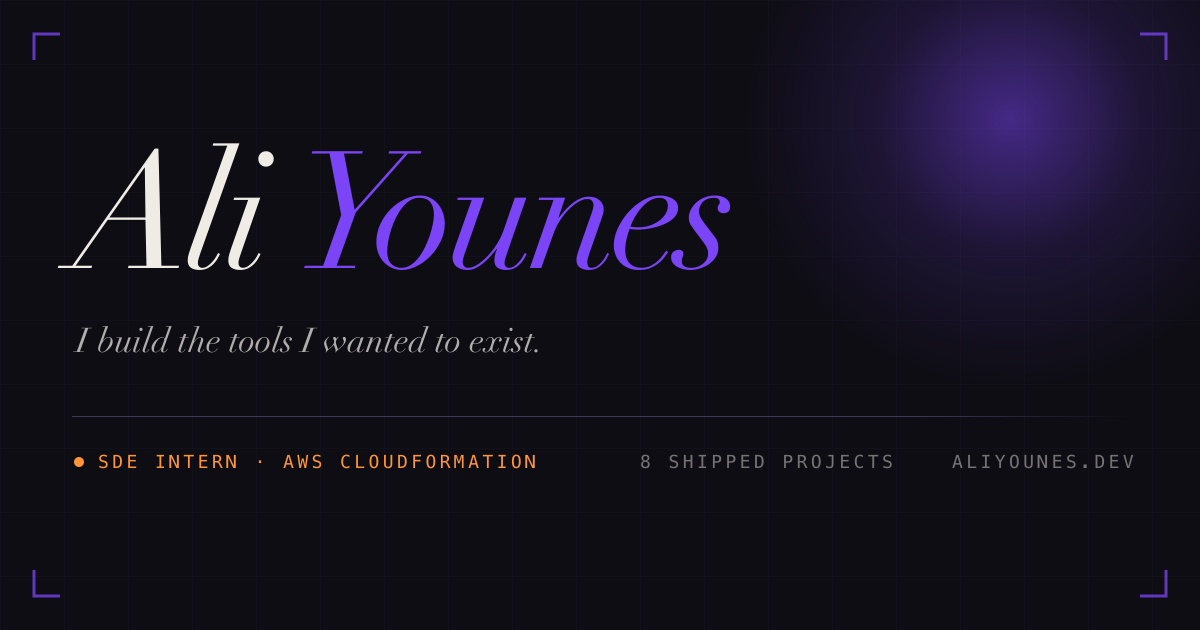
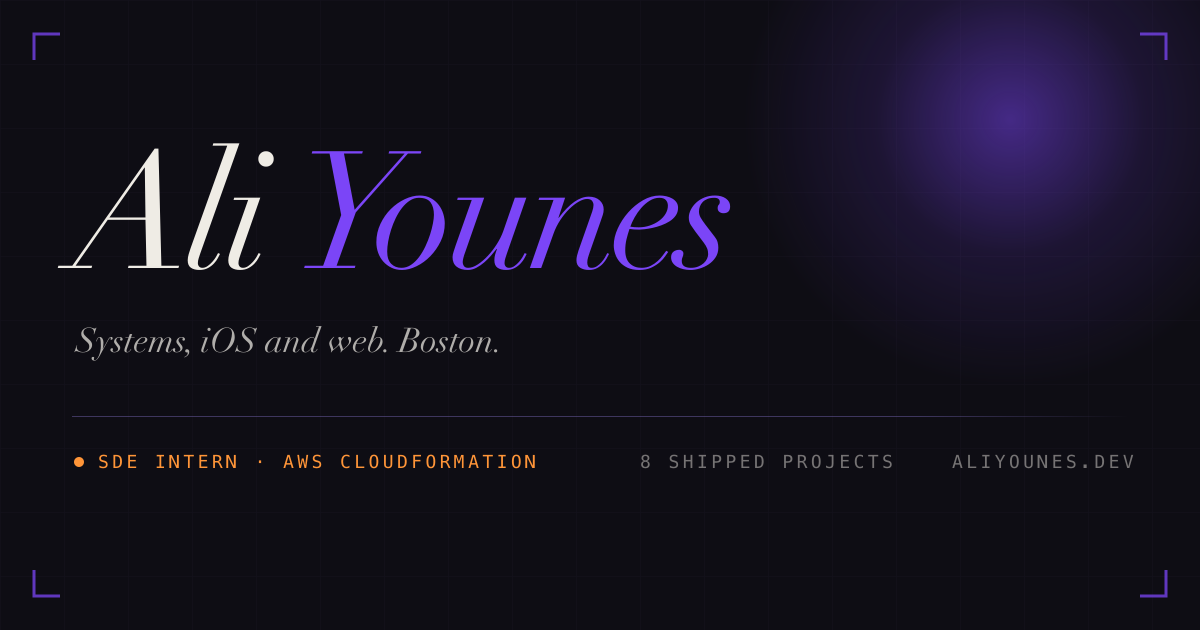
Self-host fonts, restate the hero line
Fonts move from a third-party Google stylesheet to same-origin woff2 via
fontsource. Zero requests to googleapis/gstatic; 305 KB latin-only across
five files, versus the 7 Fraunces variants and 8 Newsreader axes the old
blocking <link> requested. Axis picks are justified in main.jsx: Fraunces
keeps opsz (what gives the display cut its contrast at 17rem) and drops the
SOFT/WONK axes for -122 KB; Newsreader takes wght only.

Hero line is now 'Systems, iOS and web. Boston.' — scope, not a thesis.
The eight projects and the Philips case study make the argument.

Changed region(s): [[0.0617, 0.5127, 0.4317, 0.573]]

diff --git a/src/index.css b/src/index.css
@@ -15,7 +15,7 @@
   }
 
   body {
-    font-family: 'JetBrains Mono', ui-monospace, SFMono-Regular, Menlo, monospace;
+    font-family: 'JetBrains Mono Variable', 'JetBrains Mono', ui-monospace, SFMono-Regular, Menlo, monospace;
     font-feature-settings: "rlig" 1, "calt" 1, "ss01" 1;
     background-color: #0e0d14;
     color: #efece5;
@@ -24,8 +24,8 @@
   }
 
   h1, h2, h3, h4, h5 {
-    font-family: 'Fraunces', ui-serif, Georgia, serif;
-    font-variation-settings: "opsz" 144, "SOFT" 50;
+    font-family: 'Fraunces Variable', Fraunces, ui-serif, Georgia, serif;
+    font-variation-settings: "opsz" 144;
     letter-spacing: -0.02em;
   }
 
@@ -65,20 +65,20 @@
    Typography primitives
    =========================================================================== */
 .serif-display {
-  font-family: 'Fraunces', ui-serif, Georgia, serif;
-  font-variation-settings: "opsz" 144, "SOFT" 60;
+  font-family: 'Fraunces Variable', Fraunces, ui-serif, Georgia, serif;
+  font-variation-settings: "opsz" 144;
   letter-spacing: -0.03em;
 }
 
 .mono-label {
-  font-family: 'JetBrains Mono', ui-monospace, monospace;
+  font-family: 'JetBrains Mono Variable', 'JetBrains Mono', ui-monospace, monospace;
   font-size: 0.625rem;
   text-transform: uppercase;
   letter-spacing: 0.22em;
 }
 
 .telemetry {
-  font-family: 'JetBrains Mono', ui-monospace, monospace;
+  font-family: 'JetBrains Mono Variable', 'JetBrains Mono', ui-monospace, monospace;
   font-size: 0.625rem;
   text-transform: lowercase;
   letter-spacing: 0.18em;

diff --git a/index.html b/index.html
@@ -39,24 +39,8 @@
     />
     <meta name="twitter:image" content="https://aliyounes.dev/og.png" />
 
-    <!-- Fonts: Fraunces (display) + Newsreader (body) + JetBrains Mono (UI).
-         `media="print"` + the onload swap makes this non-render-blocking; the
-         previous version blocked first paint on a third-party stylesheet.
-         JetBrains Mono italic was dropped — it is not used anywhere. -->
-    <link rel="preconnect" href="https://fonts.googleapis.com" />
-    <link rel="preconnect" href="https://fonts.gstatic.com" crossorigin />
-    <link
-      rel="stylesheet"
-      media="print"
-      onload="this.media='all'"
-      href="https://fonts.googleapis.com/css2?family=Fraunces:ital,opsz,wght@0,9..144,400;0,9..144,600;0,9..144,900;1,9..144,400;1,9..144,900&family=Newsreader:ital,opsz,wght@0,6..72,300;0,6..72,400;1,6..72,300;1,6..72,400&family=JetBrains+Mono:wght@400;500;700&display=swap"
-    />
-    <noscript>
-      <link
-        rel="stylesheet"
-        href="https://fonts.googleapis.com/css2?family=Fraunces:ital,opsz,wght@0,9..144,400;0,9..144,600;0,9..144,900;1,9..144,400;1,9..144,900&family=Newsreader:ital,opsz,wght@0,6..72,300;0,6..72,400;1,6..72,300;1,6..72,400&family=JetBrains+Mono:wght@400;500;700&display=swap"
-      />
-    </noscript>
+    <!-- Fonts are self-hosted and imported from src/main.jsx; see the note
+         there for why these particular variable-font axes. -->
   </head>
   <body class="bg-ink text-bone paper-grain">
     <div id="root"></div>

diff --git a/src/components/Hero.jsx b/src/components/Hero.jsx
@@ -14,12 +14,10 @@
 //                                                     on the site — four words,
 //                                                     three of them LinkedIn
 //
-// The replacement line is not invented either. It is the through-line of the
-// work itself: EternalMonitor exists because he refused to pay $40 for an
-// iPad-as-second-display app, Moops because "Goodreads is fine, but it's not
-// ours", Eternal Rich Presence because Apple Music does not talk to Discord,
-// EternalExchange because Fabric had no equivalent-exchange mod. The Philips
-// case study ends on the same note: "Nobody had shipped it."
+// The replacement states scope and stops. No thesis, no claim — the eight
+// projects and the Philips case study do the arguing, which is the rule
+// docs/PROJECT_CONTEXT.md sets for this repo: a reader should find the
+// portfolio understated, never overstated.
 //
 // What stayed: the Fraunces italic name at display scale. It is the strongest
 // piece of design on the site and it does not need help.
@@ -72,7 +70,7 @@ export default function Hero() {
           className="mt-8 font-serif italic text-muted max-w-[34ch]"
           style={{ fontSize: "clamp(1.15rem, 2vw, 1.75rem)", lineHeight: 1.35 }}
         >
-          I build the tools I wanted to exist.
+          Systems, iOS and web. Boston.
         </motion.p>
 
         {/* ---- ledger ----------------------------------------------------- */}

diff --git a/src/main.jsx b/src/main.jsx
@@ -2,6 +2,25 @@
 import React from "react";
 import ReactDOM from "react-dom/client";
 import App from "./App.jsx";
+// Self-hosted fonts. Previously a render-blocking third-party stylesheet from
+// Google that requested 7 Fraunces variants and 8 Newsreader axes; same-origin
+// woff2 means one connection, immutable caching via Vite's content hashes, and
+// no third-party request at all.
+//
+// Axis choices, since these are the largest assets on the site after the key art:
+//   Fraunces   `opsz` (wght + optical size). Optical size is what gives the
+//              display cut its contrast at 17rem — it is the signature. The
+//              `full` build also carries SOFT/WONK for +122 KB; SOFT 50 was a
+//              detail nobody will miss, so index.css no longer requests it.
+//   Newsreader `wght` only. Body-size text does not need an optical-size axis,
+//              and `opsz` costs +156 KB.
+//   JetBrains  `wght` normal only — italic mono is not used anywhere.
+// Latin-ext is declared with a unicode-range, so English never downloads it.
+import "@fontsource-variable/fraunces/opsz.css";
+import "@fontsource-variable/fraunces/opsz-italic.css";
+import "@fontsource-variable/newsreader/wght.css";
+import "@fontsource-variable/newsreader/wght-italic.css";
+import "@fontsource-variable/jetbrains-mono/wght.css";
 import "./index.css";
 
 ReactDOM.createRoot(document.getElementById("root")).render(

diff --git a/tailwind.config.js b/tailwind.config.js
@@ -82,9 +82,9 @@ export default {
       },
 
       fontFamily: {
-        display: ["Fraunces", "ui-serif", "Georgia", "serif"],
-        serif: ["Newsreader", "ui-serif", "Georgia", "serif"],
-        mono: ["'JetBrains Mono'", "ui-monospace", "SFMono-Regular", "Menlo", "monospace"],
+        display: ["'Fraunces Variable'", "Fraunces", "ui-serif", "Georgia", "serif"],
+        serif: ["'Newsreader Variable'", "Newsreader", "ui-serif", "Georgia", "serif"],
+        mono: ["'JetBrains Mono Variable'", "'JetBrains Mono'", "ui-monospace", "SFMono-Regular", "Menlo", "monospace"],
       },
       letterSpacing: {
         label: "0.22em",
